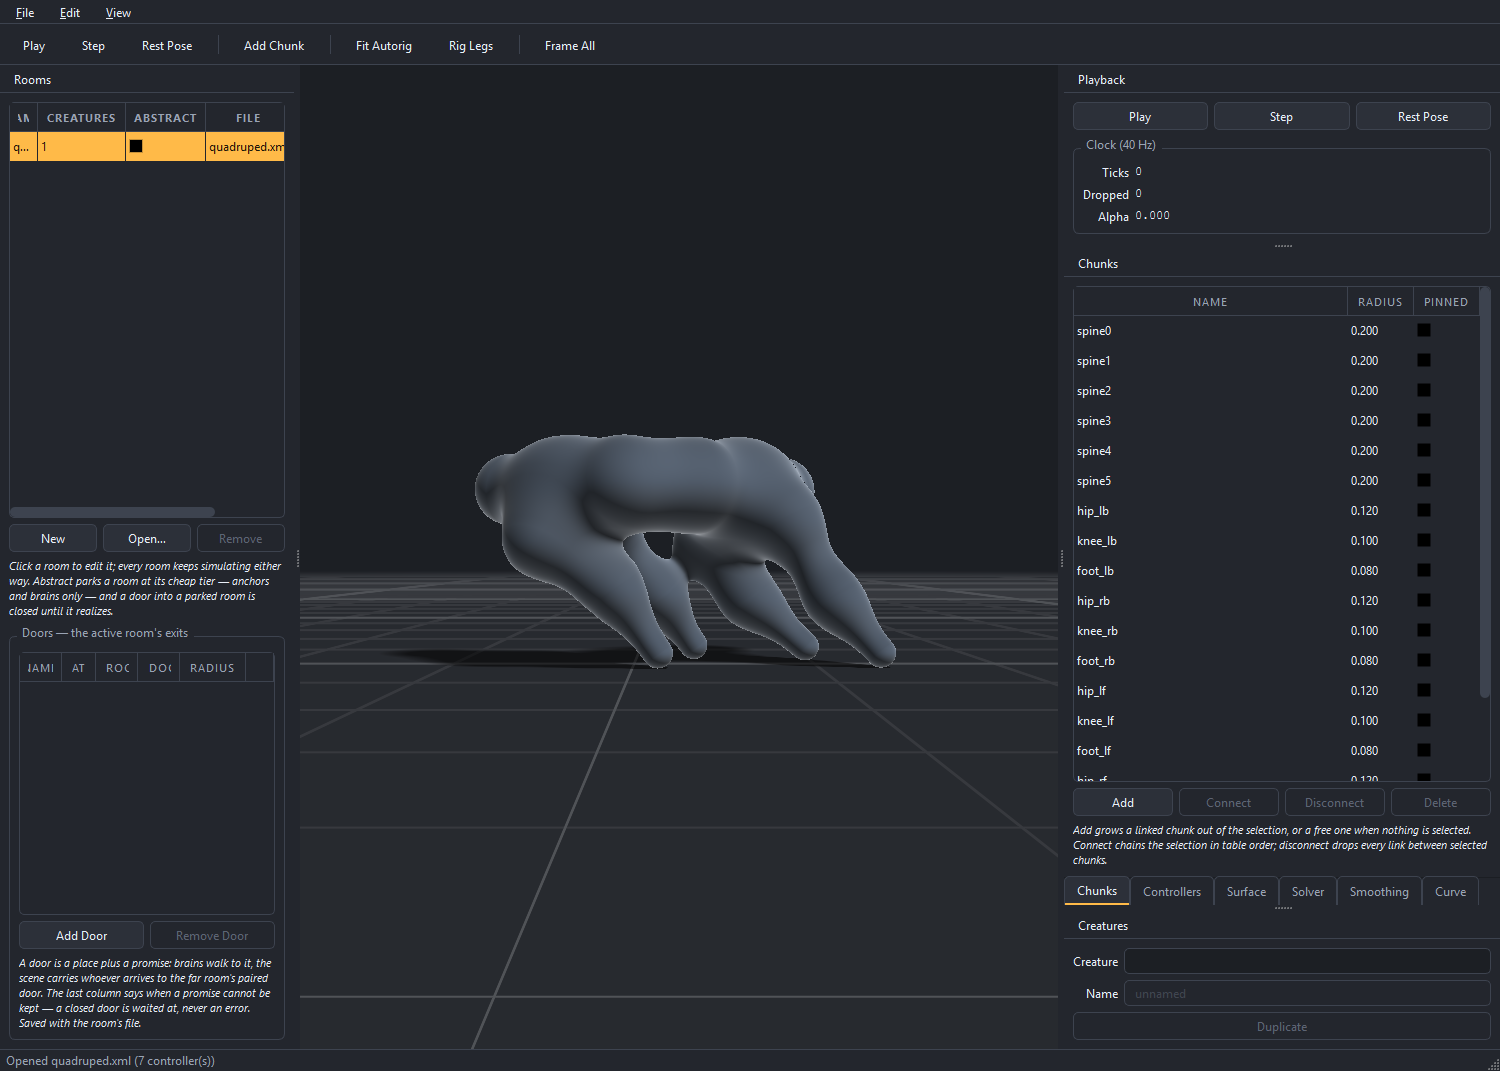
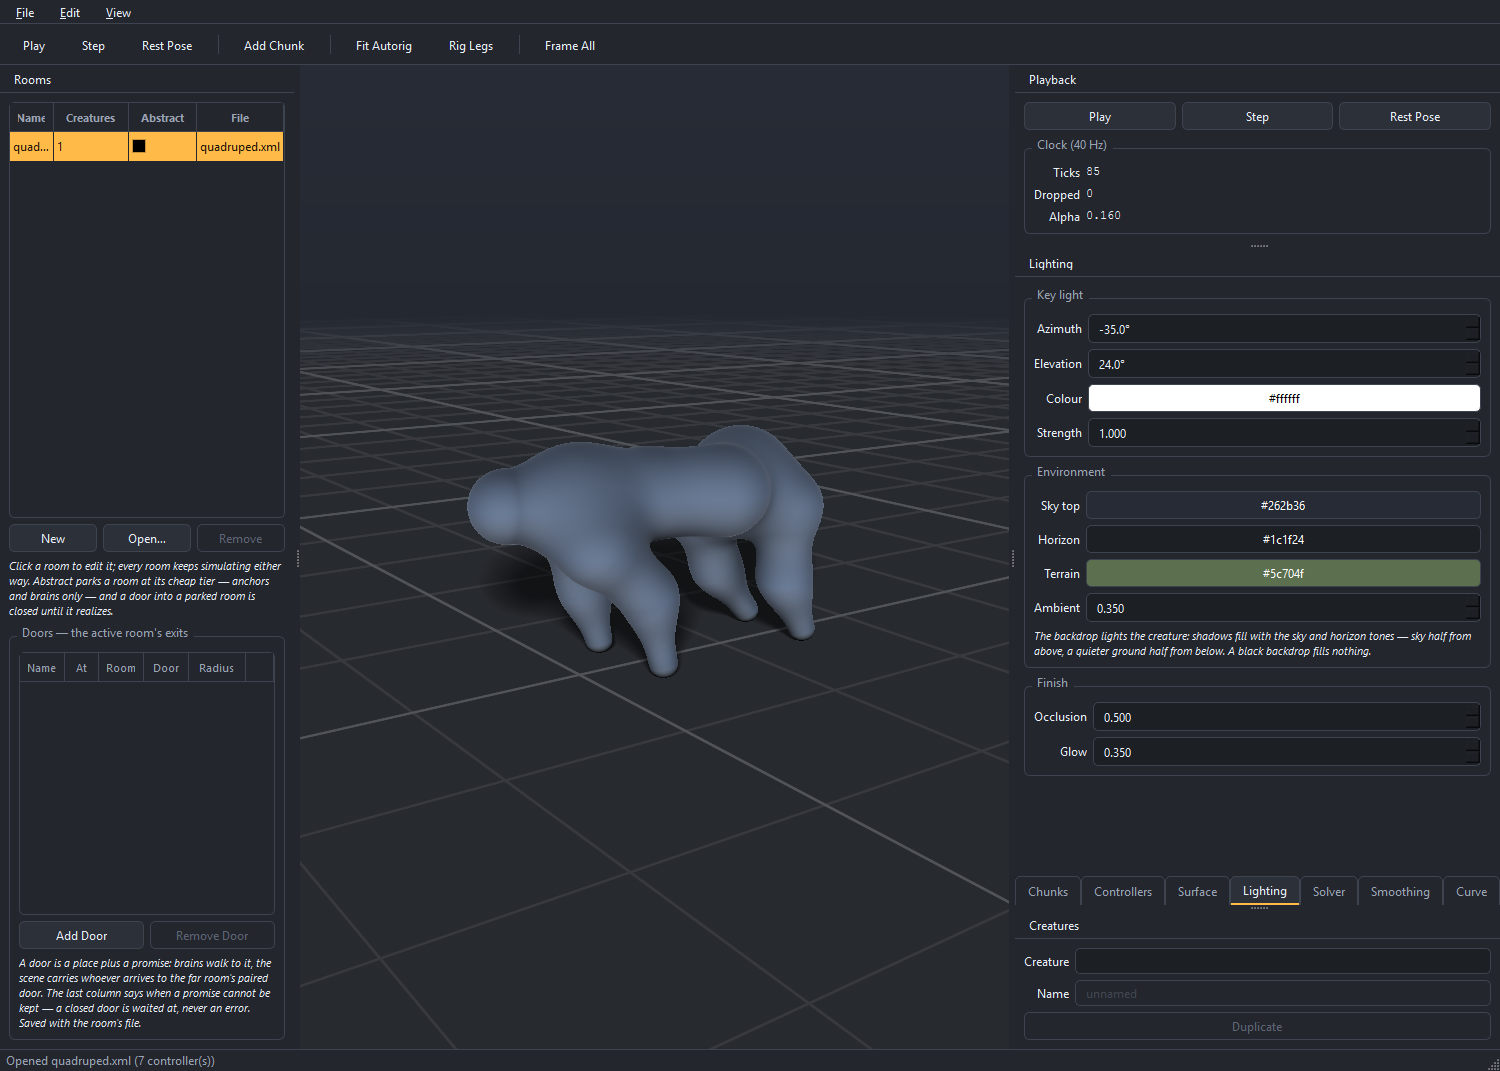
The README catches the light: both stills re-shot under the authored key, and the doc table learns four arcs

diff --git a/README.md b/README.md
@@ -5,7 +5,7 @@ Rain World's approach: a body is a handful of masses joined by distance constrai
 surface is a smooth field implied by them rather than a mesh anyone authored, and a
 creature is something that thinks, walks, and exists whether or not anyone is looking.
 
-![The editor: a countershaded quadruped mid-stride on the reference grid](docs/editor.png)
+![The editor: a quadruped mid-stride under an authored key light, the Lighting dock open](docs/editor.png)
 
 ## Quick start
 
@@ -48,6 +48,11 @@ spine points, on footfalls against friction, with no pins and no kinematic carry
 * **Skins** — per-chunk colour folded beside the distance field by the same blend
   weight, stripe and countershade patterns riding each link's own frame, painted from
   the editor and saved with the rig ([docs/TEXTURES.md](docs/TEXTURES.md)).
+* **An authored look** — one key light on azimuth/elevation knobs, a background
+  gradient that doubles as the ambient fill (shadows cool toward the sky and horizon
+  tones instead of tracking the key), SDF occlusion in the creases, a rim the skin
+  carries, and the whole record saved per room as `<look>`
+  ([docs/LIGHTING.md](docs/LIGHTING.md)).
 * **Exports** — watertight OBJ/STL by surface nets over the same field, with vertex
   colours carrying the skin; a painted herd arrives in Blender as separate, painted
   animals.
@@ -128,6 +133,10 @@ things implementation taught the design. They are the honest history of the proj
 | [SCENE_BINDING.md](docs/SCENE_BINDING.md) | The editor learning the plural: one document re-pointed across rooms |
 | [TEXTURES.md](docs/TEXTURES.md) | The weighted skin, paint gestures, patterns, painted exports |
 | [CHROME.md](docs/CHROME.md) | The editor's dress: a theme sourced from the viewport's palette, the toolbar |
+| [SETTINGS.md](docs/SETTINGS.md) | The file states its physics: solver and blend persistence, and the dirty line between file-grade and view-only |
+| [PICK.md](docs/PICK.md) | Ctrl+click placement on the rendered surface: the ray, the trace, and the one Add rule |
+| [SELF_CONTACT.md](docs/SELF_CONTACT.md) | Capsule self-contact and self-friction: mid-spans are real, end zones belong to the spheres |
+| [LIGHTING.md](docs/LIGHTING.md) | The environment becomes the fill: the key, the gradient, occlusion, glow, and the `<look>` record |
 
 ## Development
 
